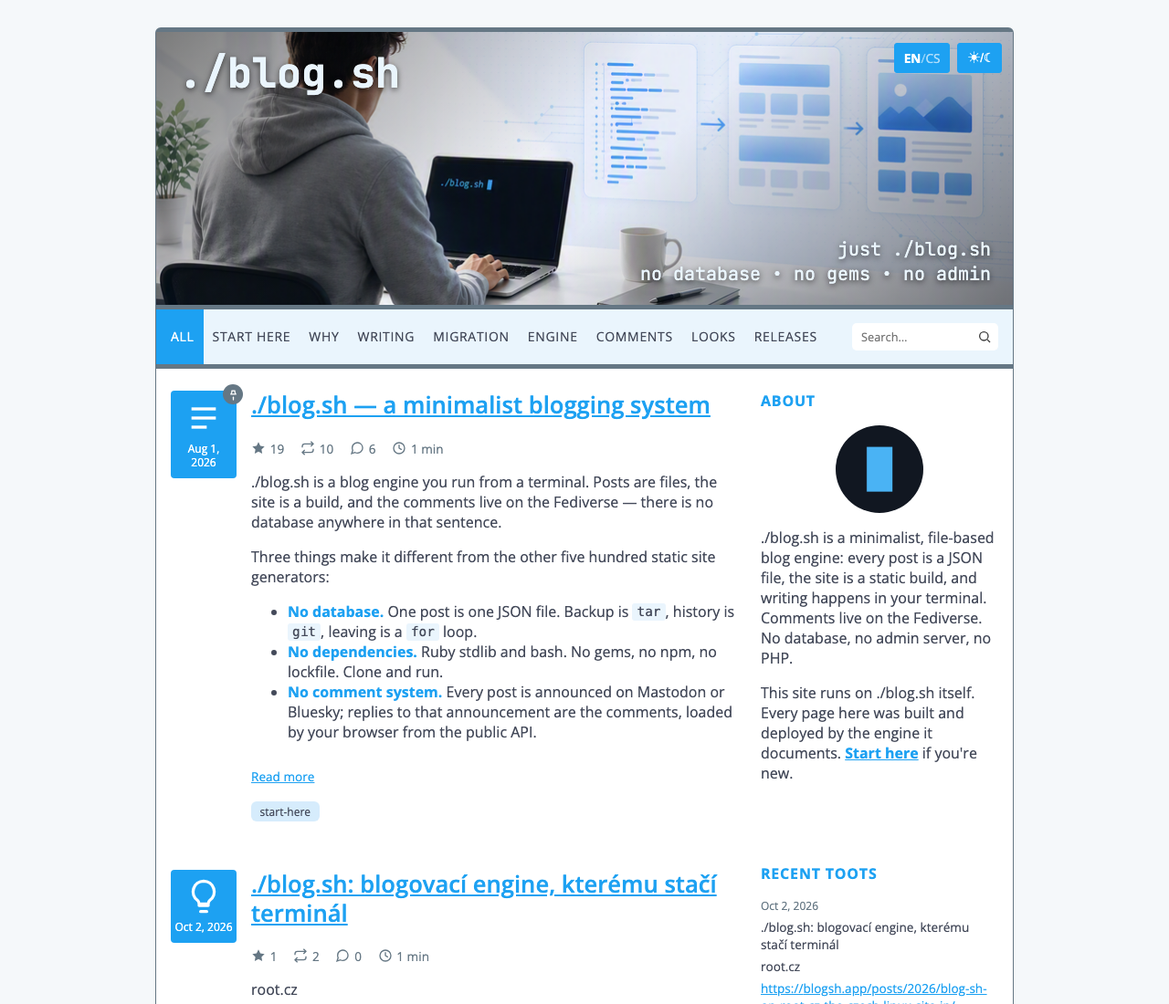
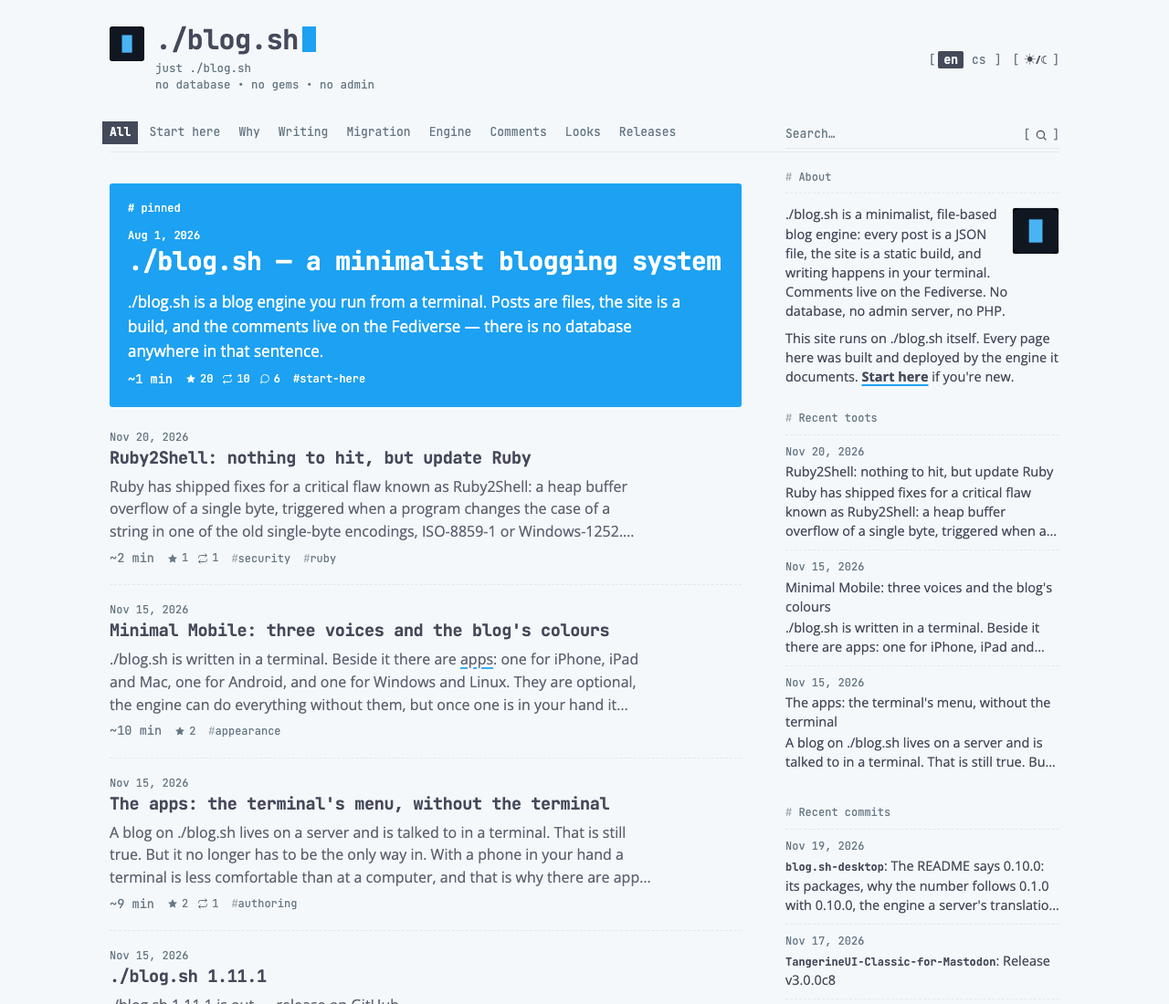
CHANGELOG: 1.12 in the shape of the other entries; README shows blogsh.app as it is now, in Minimal Terminal, and says so

diff --git a/CHANGELOG.md b/CHANGELOG.md
@@ -13,247 +13,56 @@ prints what an installation is running.
 
 ## 1.12.pre -- 2026-11-16
 
-NOTES, not the final text: set down as the work is done, to be rewritten into the shape of the other
-entries before the tag. The suffix and the date come off at the tag.
-
-Planned for 1.12 and not yet in this file: limako's #78 (a series numbered from zero).
+The translation release. `translate --auto` hands a post to a translator the author names -- a program of
+one's own, OpenAI, Anthropic, Gemini, DeepL or LibreTranslate -- and leaves a draft to read and save.
+Beside that, a reader can reply to a toot from their own Mastodon server, and a post is announced once
+its page is live.
+Nothing to migrate -- `git pull`, rebuild, deploy. Hashtags of tags with a dot, a hyphen or a space change
+shape, and a site with no deploy target is no longer announced.
 
 ### Added
 
-- **`translate <slug> --lang <code> --auto`: a translator the author names writes the first draft** (#68, built
-  on Pavel's `scripts/auto-translate.sh`, PR #69). The result is a file in `tmp/` that says `edits:`, `base:` and
-  `lang:`, for the person to read, mend and `add` -- through the door a text from an app uses, so a post that changed
-  in the meantime is refused instead of overwritten. Nothing is saved or published by the command, and there is no
-  `--publish`: a machine translation nobody has read is not something to put on a site. Without a slug it takes the
-  newest post that is out; `--force` replaces a language already written.
-- **The translator is a setting, not a provider.** In `env.sh`: `TRANSLATOR_COMMAND` -- any program that reads the
-  instructions and the post on standard input and writes the translation to standard output (`claude -p`, a
-  Gemini or Codex command line, `ollama run`, a script of one's own), started without a shell -- or
-  `TRANSLATOR=openai|anthropic|gemini` with `TRANSLATOR_MODEL` and `TRANSLATOR_KEY` (`TRANSLATOR_URL` points the
-  OpenAI-style one at Mistral, OpenRouter, Ollama, LM Studio or any server by its address). Plain `Net::HTTP`, no gem.
-  Never in `config/site.yml`, which travels with the site and must not be able to name a program the engine runs.
-- **It checks what a translator is known to damage.** Web addresses, names of pictures, the numbers, and the count
-  of headings, paragraphs and `//--more--//` lines are compared with the original; a difference is a warning,
-  not a refusal. The `slug:` line is always left empty. An answer without the header, an empty one, one that ran
-  out of room (`TRANSLATOR_MAX_TOKENS`) and one the model declined are not saved.
-- **What a provider says when it will not is said as what it is**: a key it does not accept, no credit left, a
-  model the plan leaves out, too many requests, a server in trouble, a post too long for the model, a model that
-  does not exist -- each a code for a program and a sentence for a person that names the setting to change.
-  A key is sent over https or to this machine only, and never appears in what the engine says.
-- **Which model is the author's choice, and the quality of the language is the model's.** Run by hand on 16 November
-  against Anthropic (`claude-haiku-5-5`) and Gemini (`gemini-3.5-flash-lite`): both kept the Markdown, the link and the
-  numbers; the Gemini one put a Czech noun in the wrong case ("Druhý odstavce"), which no check of the engine can see,
-  as it compares addresses, numbers and shape, not grammar. OpenAI was reached and said so when the account had no
-  credit. `docs/operations.md` says to read a translation before saving it and to try a model on a post one can judge.
-- **At the terminal** a language with nothing written offers `[a]`: the editor then holds the machine's text, with
-  what looked wrong with it and the original as `//` notes. Closing it unchanged asks once before saving.
-- **For the apps**: `translate --json` carries an `auto` block (`available`, and when not, a `problem` and a
-  `message`), and `translate --auto --json` returns the translated text and the warnings without saving.
+- **`translate <slug> --lang <code> --auto`** (#68, PR #69, Pavel). A translator writes the first draft into `tmp/`; `add` saves it.
+- **The translator is a setting in `env.sh`.** `TRANSLATOR_COMMAND`, or `TRANSLATOR=openai|anthropic|gemini|deepl|libretranslate` with a model and a key.
+- **DeepL and LibreTranslate.** Sent paragraph by paragraph; code, addresses and Markdown come back untouched.
+- **`./setup.sh --translator`.** Asks about the translator only and writes `env.sh`; `doctor` says whether the setting is whole.
+- **A translation is compared with the original.** Addresses, pictures, numbers and the count of headings and paragraphs; a difference is a warning.
+- **What a provider refuses is said as what it is.** A bad key, no credit, a model the plan leaves out -- a code and a sentence.
+- **`[a]` at the terminal** for a language with nothing written: the editor opens on the machine's draft.
+- **`translate --json` carries an `auto` block.** `translate --auto --json` returns the draft and its warnings without saving.
+- **A reader can reply from their own Mastodon server** (#75, Pavel). One field, remembered in the browser; `comments.reply_from_own_server: false` turns it off.
+- **A translation just saved ends on its preview address and QR code** (#80, Pavel), as a draft does.
+- **A list cut at the 50 newest posts says so** (#82, Pavel), and how to reach an older one.
+- **`doctor` says when the site's address has a path, a query or a fragment.** The engine builds a site for the root of a domain.
+- **`doctor` says when `nano` is pico**, and when there is no editor at all.
 
-- **A reader can reply to the announcement from their own Mastodon server** (#75, Pavel). The link "Reply on
-  Mastodon" opens the toot on the blog's instance, where most readers are not signed in. Beside it a link opens a
-  one-field form; the server typed there (`mastodon.social`, `@me@mastodon.social` or an address copied from the
-  bar) becomes `https://<server>/authorize_interaction?uri=<toot>`, which takes a signed-in reader to their own
-  copy to reply, boost or favourite. It is remembered in the reader's browser -- under the key the share row
-  already uses, so one answer serves both -- and the next visit shows a link straight there. Browser only: nothing
-  about the reader reaches the site. On for a Mastodon post unless `comments.reply_from_own_server: false`; a
-  Bluesky post never gets it. The words travel in a `data-remote-reply` attribute on the comments container, not
-  in the script that is inline on every page, so the upgrade rewrites only the posts that carry a toot. Looks:
-  `skins/classic.css` and the Minimal family (`skins/minimal.css`, the variants rebuilt).
-- **doctor no longer takes `comments.reply_from_own_server` for a misspelled `approval`**: a `comments:` section
-  holding only that key was reported as "every reply is published, unmoderated".
-  It also reads the key's value now: true or false (on, off, yes and no work too) and nothing else, named in an
-  error before the build stops on it.
+### Changed
 
-- **An announcement's hashtags keep a tag's words together**. A tag
-  with a dot, a hyphen or a space was announced as a shorter one: `blog.sh` as `#blog.sh`, which Mastodon and Bluesky read
-  as `#blog`, `sean.cz` as `#sean`, `self-hosting` as `#self`, and `hudba dana`, its space dropped, as `#hudbadana`.
-  A run of spaces, dots and hyphens is now one `_` (`#blog_sh`, `#hudba_dana`), one at either end of the tag is dropped
-  (`.net` is `#net`), and tags that come to the same hashtag are said once. The tag's own page on the site keeps its
-  address. Upgrading: new announcements go out under the new hashtags; toots already sent stay where they are, so a
-  tag like `hudba dana` is `#hudbadana` on the old toots and `#hudba_dana` on the new.
+- **A post is announced after its page is live** (#83, Pavel). A deploy that fails leaves the toot in `.announce-pending` for the next one.
+- **`doctor` names a toot that waits for a deploy**, or whose post is gone, with what to do.
+- **A hashtag keeps a tag's words together.** `blog.sh` is `#blog_sh`, not `#blog`; `C++` is `#Cplusplus`. Old toots keep theirs.
+- **A site with no deploy target is not announced.** Its page is on no server; `./blog.sh toot <slug>` once it is.
+- **`nano` that is really pico (macOS from 2026) is opened with `-w`.** It took `--atblanks` for a file and wrote the post there.
+- **The properties screen begins with the tags** (#81, Pavel). The Czech "Typ" read as "tip".
+- **A link block drawn by its address carries `link-block--address`.** One class more, in every skin.
 
-- **The announcement goes out after the page is live, not before** (the author's, 30 October). A post was announced
-  first because the page draws its comment thread from the toot's address; so for as long as the build and the
-  deploy took -- three minutes on a cold disk, longer on a large archive -- the link in the toot led to a 404, and
-  followers wrote to say so. Now publishing builds and deploys the page, sends the toot, and puts the toot's address on
-  the page with a second build (measured on 13 500 posts: about ten seconds for a build after one post changed). If the
-  deploy fails, nothing is announced: the post goes into `.announce-pending` and the next run of the publishing cron
-  that gets a deploy through sends the toot. By hand the same order holds, and `--no-announce` still announces nothing.
-  `doctor` warns of a toot that waits for a deploy (naming the posts, and what to do: deploy, then `./blog.sh toot <slug>`),
-  and a toot sent by hand pays the debt. Upgrading: nothing to do; a toot owed by a run that was interrupted is in
-  `.announce-pending`.
-  Found by the fleet over 1.12 and fixed before the release: the debt is written BEFORE the build (it was written
-  only when the deploy returned a failure, so a publish stopped by Ctrl-C, a closed SSH session or a kill lost its
-  toot for good); the toot's address is written onto the post as it is on disk after the deploy (an `edit` saved
-  during the deploy was undone); `unpublish` and `publish --no-announce` drop a debt an earlier failed deploy left
-  (the cron announced a post its author had said not to); each line carries the moment it was owed, and the cron
-  pays only the debts its own build saw (a post published by hand while the cron built was announced before its
-  page was out); whoever claims a debt first sends the toot, the other does not.
+### Fixed
 
-- **`[d]` in the draft dialog of a scheduled post says what is true now, and that --no-announce does not reach the
-  plan** (found by the fleet over 1.11.1). It said "Still scheduled for ..." from the copy read before the keypress, so
-  a post the cron had published while the prompt waited was still called scheduled; it now reads the post again and
-  says it is published, or names the date the plan has now. And `publish --no-announce` on a scheduled post said
-  nothing at `[d]`, where `[s]` says the flag cannot reach the cron -- a plan that is kept announces when its date
-  comes; `[d]` says so too.
-
-- **Pictorial no longer cuts the first eight characters off a link's title** (found by the fleet over 1.11.1). A link in
-  a tile that has a title of its own, in a post whose own title is a different one, read "article" for "Another article":
-  the rule that hides `https://` on the left of a link drawn by its address took the title for an address. The build now
-  marks a link block drawn by its address (`link-block link-block--address`) and Pictorial shifts only that one. The
-  HTML of such a link block changes by one class, in every skin.
-
-- **`add <file>` with `lang:` or `base:` and no `edits:` is refused** (#79, Pavel). It made a post of its own in the
-  language the file named, with a generated address -- an orphan beside the original, without a word. The refusal names
-  the missing `edits: <slug>` (code `needs_edits` for a program) and writes nothing.
-- **A translation just saved ends on its preview address and its QR code** (#80, Pavel), as the draft dialog does:
-  in a terminal, for a draft, on a site with a real address.
-- **The properties screen says what it means** (#81, Pavel). The Czech hint began "Typ, štítky ...", which reads as
-  "tip"; it now begins with the tags, and all three languages name the command as it is typed, `./blog.sh edit`.
-- **A list cut at the 50 newest says so** (#82, Pavel). The list the wizard's Post entry, `edit` and `delete` offer
-  without a slug ends where the Archive goes on; with more than 50 posts it now says "Showing the 50 newest of N
-  posts" and that an older one is reached by its slug or by searching in the Archive. Both entries stay: Post is the
-  quick way to the latest posts, the Archive the way to search all of them.
-
-- **The translator program is stopped when its time is up or on Ctrl-C, with everything it started** (fleet over
-  1.12). `TRANSLATOR_TIMEOUT` waited only for the program itself, so one that left something in the background holding
-  its output kept the engine waiting as long as that lived; Ctrl-C left the engine waiting and a second one left the
-  translator running. After TERM the whole group now gets KILL.
-- **`./setup.sh --translator` on a change of provider drops the old address and key, and Enter keeps a `deny`**
-  (fleet over 1.12). Kept, the old `TRANSLATOR_URL` sent the new provider's requests and key to the old address;
-  and the question about the apps defaulted to yes, so an Enter undid `TRANSLATOR_REMOTE=deny`.
-
-- **The rest of what the fleet over 1.12 found, fixed before the release** (nothing of it was in 1.11.1 but the
-  last item):
-  - *The translator*: an answer or an error message that is not UTF-8 is said as `translator_bad_output` /
-    `translator_failed`, not a Ruby error; every `slug:` line the model writes is emptied, not only the first;
-    `http://[::1]` connects; a key echoed back by a server is hidden before the message is cut, not after; a broken
-    gzip body is a network error; Gemini's own "API key not valid" is `translator_invalid_key`; a 403 is
-    `translator_forbidden` ("the key, the account, the country, or an API not switched on"), not "the key"; an
-    answer in blocks (Mistral's reasoning models) is read from its text blocks.
-  - *`translate --auto`* of a language already written shows the address that language has in `slug:`, as
-    `translate --json` does; it came back empty, which read as "no address" (the address itself was kept on save).
-  - *`translate --auto`*: "Translating into ..." is said once the post, the language and the translator are known
-    to be in order; a post with neither a title nor text is not sent (`nothing_to_translate`); a file in `tmp/` from
-    an earlier run, not saved yet, is not replaced without `--force` (`pending_exists`).
-  - *Announcements*: a cron stopped between the network's answer and writing the address does not announce the post
-    again (the debt is taken before the toot is sent); a site with no network owes no toot; the message about a toot
-    that waits names `./blog.sh rebuild`, then `toot` or `bluesky` by the site's network, and no longer says the
-    deploy failed when it may only have waited for the lock; a file of debts with bytes that are not UTF-8 stops
-    neither the cron nor doctor.
-  - *Hashtags*: every character a hashtag cannot hold is a `_` like a dot (`R&D` is `#R_D`, `don't` `#don_t`), and
-    none is left at an end (`kytara 🎸` is `#kytara`); invisible marks are taken out; a tag of only punctuation or an
-    emoji is no hashtag; `é` typed two ways is one hashtag; a hashtag is at most 64 graphemes, Bluesky's limit,
-    cut where a `_` is.
-  - *doctor*: a `TRANSLATOR_COMMAND` whose program is not found is a warning, not "set up"; an unreadable
-    `TRANSLATOR_TIMEOUT` or `TRANSLATOR_MAX_TOKENS` is said with the default used instead.
-  - *setup*: `./setup.sh --translator` writes its lines beside the others and leaves the examples in env.sh's
-    explanation alone (they no longer read as commented-out settings).
-  - *Terminal*: the reply links that wrap to a second line on a phone start at the edge, not 16px in.
-  - *The program a translator is*: it is no longer handed the engine's own secrets from env.sh (the Mastodon token,
-    the Bluesky and Surfer passwords, `TRANSLATOR_KEY`, the paired keys); its own key (`ANTHROPIC_API_KEY` and the
-    like) it keeps.
-  - *Two translations of one post*, already so in 1.11.1: saving one made the other "changed", because `base:` was
-    the hash of the whole file. It is the hash of what a translation is made from now -- the original and that
-    language's own text -- and a `base:` of the whole file, as a program from before 1.12 sends it, is still read.
-- **What the fleet over 1.12 found that was already so in 1.11.1, fixed with the rest:**
-  - *A site deployed nowhere is not announced* ("built locally and goes nowhere"): its page is on no server, so a
-    toot pointed at nothing. It says so, with `./blog.sh toot <slug>` (or `bluesky`) for when the site is online.
-    Upgrading: a site that serves `public.nosync` itself, with no deploy target set, announces by hand from now on.
-  - *A toot past 500 characters even without a perex* (many tags, a long title) went out as it was and Mastodon
-    refused it, so the post was not announced: tags now yield from the end, then the title on a word, as on Bluesky.
-  - *`translate ... --json` with a mistake in its words* (no language, an unknown word, `--force` without `--auto`,
-    no slug) answers an object and a zero, with `needs_language`, `unknown_args`, `force_needs_auto`, `needs_slug`,
-    `no_locales`.
-  - *The field for one's own server* (and the share button's, the same check) refuses what a browser does not take
-    for a host -- a port past 65535, `a<b.c`, `evil.com#.mastodon.social` -- instead of a button that did nothing or
-    opened somewhere else than it said; a server is remembered only once its tab opened.
-  - *A link block whose title is empty or only spaces* is drawn by its address, not as an empty, invisible link.
-  - *The cron on a site with an announcement and no `site.base_url`* says that, not "check the token" (the build
-    refuses such a site first today, so this is said only should that change).
-- **DeepL and LibreTranslate as translators** (`TRANSLATOR=deepl` / `libretranslate`, 18 November). They take no
-  instructions, so the post is sent paragraph by paragraph -- each heading, list item and quoted line on its own --
-  with what must come back unchanged kept aside as tags the service leaves alone: code (a code block is not sent at
-  all), the address of a link or a picture, bare addresses, HTML, the marks of emphasis and of the line itself. The
-  text of a link and a picture's description are translated; the check against the original runs as for any
-  translator. DeepL: `TRANSLATOR_KEY`, a free key (`…:fx`) goes to api-free.deepl.com; English is `EN-US` and
-  Portuguese `PT-PT` unless `TRANSLATOR_DEEPL_EN` / `TRANSLATOR_DEEPL_PT` say otherwise; 403 is a refused key, 456
-  used-up characters. LibreTranslate: `TRANSLATOR_URL` (a server of one's own, http on this machine too), a key only
-  where the server wants one. `./setup.sh --translator` offers both, `doctor` knows them. A code span and an
-  address go with their words, in a tag the service is told not to translate, so the sentence around them reads
-  right (sent as an empty tag, "a heading with `code`" came back from DeepL as "a heading with a picture"); an ending
-  the service hangs on them ("s `code`m") is dropped. Run by hand against DeepL on 18 November (Free, into Czech):
-  the Markdown came back whole, and the check said that "3" had become a word. LibreTranslate: stand-ins only.
-- **`doctor` says when the site's address has a path in it** (`https://example.com/blog`). The engine builds a site
-  for the root of a domain -- its pages ask for `/assets/...`, the search and the feeds from the root -- so under a
-  path they came out unstyled, or styled by whatever lives at the root, and doctor, whose check of the address
-  looked only at its start, said nothing. Serving a site under a path is still not done; the advice is a domain or
-  a subdomain of its own.
-- **`nano` that is really `pico` (macOS from 2026) is opened as pico, with `-w`.** Pico knows none of GNU nano's
-  long switches and does not fail on them: it took `--atblanks` for the name of a file, so with no `$EDITOR` set the
-  post was written into a file of that name in the current directory and `add` read the post's own file back empty.
-  The engine tells pico by where the link leads (it never runs it to ask) and starts it with `-w` -- no lines broken
-  as they are typed, which GNU nano reads the same way, and which is now also the fallback for an old GNU nano.
-  `doctor` says when `nano` is pico (a paragraph is not wrapped on the screen there) and how to get GNU nano, and
-  when there is no editor at all. The setup wizard's own editor step opens `nano -w` too.
-- **What a second, smaller fleet over 1.12 found (20 November), fixed before the release:**
-  - DeepL and LibreTranslate: a code block fenced with ```` that shows ``` inside was sent to be translated, and with
-    an odd number of them the rest of the post was not; a fence now closes as the parser closes it. A code span
-    `&lt;div&gt;` came back as `<div>` and a code span `<x>` not at all, even from an answer that changed nothing:
-    the service's text is cleaned before the kept pieces go back. Cutting the ending off a kept piece ("s `code`m")
-    cut the rest of a Japanese or Chinese sentence; only a short ending in a script with spaces goes now. A line that
-    begins with `<b>` or `<https://...>` is translated; only a block of HTML is kept, to its blank line. A tag the
-    service wrote its own way is still known; every batch is counted and every text owed an answer. A language that
-    names its variant (`pt-BR`, `en-GB`, `zh-Hant`) gets it from DeepL; LibreTranslate's traditional Chinese is `zt`.
-  - The owed toot follows a post renamed, moved to another year by an edit, or moved by a date set through
-    scheduling; before, the next run found no file there and the post went out unannounced. `delete` settles its own
-    line, and `doctor` names a line whose post is gone. A post deleted or renamed while a manual publish deployed is
-    not written back from the copy read before the build. A debt owed in the future (a clock that went back) is paid
-    rather than waited for on every tick. The cron no longer announces a scheduled post on a site with no deploy
-    target, as a manual publish has not since the first fleet.
-  - `C++` and `C#` are `#Cplusplus` and `#Csharp`, not both `#C`. `translate --auto` reads a language's address from
-    the header only, not from a `slug:` line in a code block. `doctor` reads the site's address whole: `/blog//` is a
-    path, a query or a fragment is said as such, a trailing space is the wrong shape. `./setup.sh --translator`
-    switched to another provider asks for the model afresh; the question about the apps no longer says "(Enter:
-    yes)" where Enter keeps a `deny`. A `nano` that reaches pico by a hard link or a script is pico too. JRuby and
-    TruffleRuby are not told to update to a CRuby release.
-- The classic skin lays the ways to reply (#75) out as a row that wraps whole links -- on a phone "Reply from
-  another / server..." broke in two -- and the field's error is in the text's colour, not the links'. Terminal stands
-  on classic and has it too.
-- README names the `TRANSLATOR_*` settings, and the `--json` table in `docs/operations.md` has the `auto` block and
-  `translate --auto --json` with its codes.
+- **`add <file>` with `lang:` or `base:` and no `edits:` made an orphan post** (#79, Pavel). It is refused.
+- **Saving one translation made the other one of the post "changed".** `base:` is the hash of what it is made from.
+- **`[d]` on a scheduled post said "Still scheduled" after the cron had published it.** It reads the post again.
+- **`publish --no-announce` said nothing at `[d]`** that the flag cannot reach the cron. It says so, as `[s]` does.
+- **Minimal Pictorial cut the first eight characters off a link's title.** Only an address is shifted.
+- **A link block with an empty title was an invisible link.** It is drawn by its address.
+- **The share button took what a browser does not take for a host.** A port past 65535, `evil.com#.mastodon.social`.
+- **Many tags or a long title took a toot past 500 characters, and Mastodon refused it.** Tags yield first.
+- **`translate --json` with a mistake in its words answered nothing a program reads.** An object and a code.
 
 ### Security
 
-- **A paired device may ask for a translation unless the server says `TRANSLATOR_REMOTE=deny`** in `env.sh` (the
-  owner's decision, 16 November: the translator is set up to be used, and the apps are where most of the writing is
-  done). A translation is paid for by someone and the text of the post is sent to someone: a paired device that is lost
-  can have translations made at the owner's cost until its key is revoked (`./blog.sh pair --revoke`); a server that
-  does not want that says `deny`. A word that is neither `allow` nor `deny` is read as a no, and doctor says so. At a
-  terminal it is always allowed. `translate` in the whitelist of `scripts/remote.rb` now takes `--auto` and `--force`.
-
-- **`./setup.sh --translator`** asks about the machine translator and nothing else -- a program, or a service by name
-  with its model and key, and whether the apps may ask -- and writes `env.sh` only. The main interview is as it was.
-  `env.sh.example` now shows both kinds of translator in full, and **`doctor`** says whether what is set is whole (and
-  nothing at all of an installation that has set nothing).
-
-- **`doctor` and `check` say when the Ruby gets no security fixes** (the author's, 20 November). On 18 November Ruby
-  fixed a one-byte heap overflow in changing the case of a string, which a crafted string may turn into running code
-  (GHSA-34m4-m9fh-gqp5), in 3.3.14, 3.4.13 and 4.0.10; 3.2 and older get no fix. The engine is not known to be hit
-  by it, but it is often the reason Ruby is on the machine, and `blog.sh` and `setup.sh` checked only the floor of
-  2.7. A maintained branch below its fixed release, and a branch past its end of life, are now a warning first in
-  `doctor` and in `check` (kind `ruby`, in `--json` too) with what to update to. A warning: nothing exits 1 for it, and
-  an archive with nothing wrong is still said to be clear. `BLOG_SH_RUBY_VERSION` names the version judged in place
-  of the interpreter's, so that the test suite does not depend on the machine it runs on.
-
-### Not done / to settle before the tag
-
-- The suite runs the translators only against a stand-in on this machine; the request shapes come from the
-  providers' documentation and our other app's live tests. By hand (see "Which model is the author's choice")
-  Anthropic and Gemini translated and OpenAI answered "no credit"; an OpenAI translation itself is not tried yet.
-  The docs therefore name no "verified" models.
-- "Translated from" and a list of departures written by the model are left out.
+- **A paired device may ask for a translation unless `TRANSLATOR_REMOTE=deny`.** Someone pays for it; a lost device until `pair --revoke`.
+- **The translator program does not get the engine's secrets from `env.sh`.** Its own key it keeps.
+- **`doctor` and `check` say when the Ruby gets no security fixes** (GHSA-34m4-m9fh-gqp5). 3.3.14, 3.4.13, 4.0.10 or newer; a warning.
 
 
 ## 1.11.1 -- 2026-11-15

diff --git a/README.md b/README.md
@@ -41,10 +41,12 @@ ships belong to other people, and [NOTICE](NOTICE) says who.
 
 | Light | Dark |
 | --- | --- |
-| ![Homepage, light mode](docs/screenshot-light.png) | ![Homepage, dark mode](docs/screenshot-dark.png) |
+| ![blogsh.app in Minimal Terminal, light mode](docs/screenshot-light.png) | ![blogsh.app in Minimal Terminal, dark mode](docs/screenshot-dark.png) |
 
-*The default blue palette -- both modes come entirely from the 7-key
-`colors:` section in `config/site.yml` (see
+*[blogsh.app](https://blogsh.app) in the Minimal Terminal skin
+(`site.skin: minimal-terminal`). A site that names no skin wears classic;
+both modes of either come from the 7-key `colors:` section in
+`config/site.yml` (see [skinning.md](docs/skinning.md) and
 [install.md → The palette and the header's type](docs/install.md#the-palette-and-the-headers-type)).*
 
 **Contents:** [Why this exists](#why-this-exists) ·
